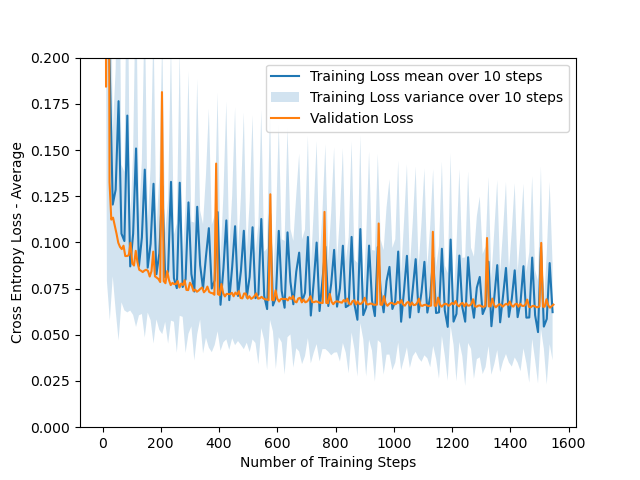
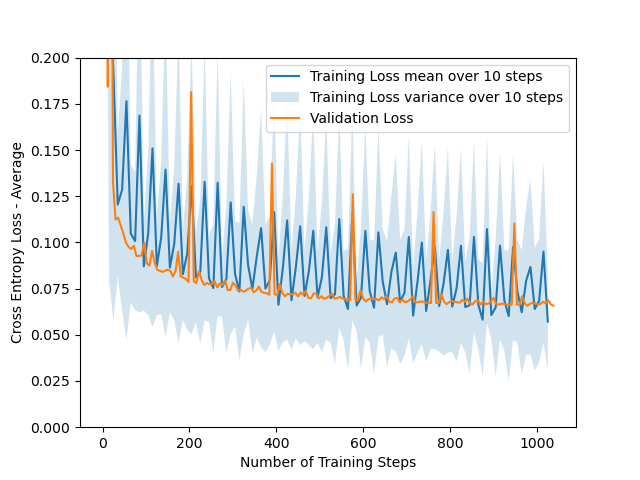
Added task 2c

diff --git a/assignment1/trainer.py b/assignment1/trainer.py
@@ -73,6 +73,14 @@ class BaseTrainer:
         )
 
         global_step = 0
+
+
+        #Variables to keep track of stop critera, step count and best loss
+        step_count = 0
+        stop_criteria = 10 #Early stop criteria - validation loss does not improve after stop_criteria = 10
+        best_loss = np.inf #Intilized to infinity first
+
+        #Defining a stop int
         for epoch in range(num_epochs):
             train_loader = utils.batch_loader(
                 self.X_train, self.Y_train, self.batch_size, shuffle=self.shuffle_dataset)
@@ -90,5 +98,28 @@ class BaseTrainer:
 
                     # TODO (Task 2d): Implement early stopping here.
                     # You can access the validation loss in val_history["loss"]
+
+                    '''
+                    First checking if validation loss is better than the previous one, 
+                    and if it is, change it to the current one, and set step count to 0.
+                    If validation loss doesnt improve, keep best loss as previously stated and 
+                    then increase step count.
+                    When it reaches stop_criteria, return train history and valhistory
+                    '''
+
+                    if stop_criteria:
+                        if val_loss < best_loss:
+                            best_loss = val_loss
+                            step_count = 0
+                        else:
+                            step_count += 1
+
+                    if step_count == stop_criteria:
+                        print("Stop epoch: ", epoch, " at ", global_step, " steps")
+                        return train_history, val_history
+                    
+
+
+
                 global_step += 1
         return train_history, val_history

diff --git a/assignment1/task2.py b/assignment1/task2.py
@@ -81,7 +81,7 @@ class LogisticTrainer(BaseTrainer):
 
 def main():
     # hyperparameters DO NOT CHANGE IF NOT SPECIFIED IN ASSIGNMENT TEXT
-    num_epochs = 50
+    num_epochs = 500
     learning_rate = 0.05
     batch_size = 128
     shuffle_dataset = False
